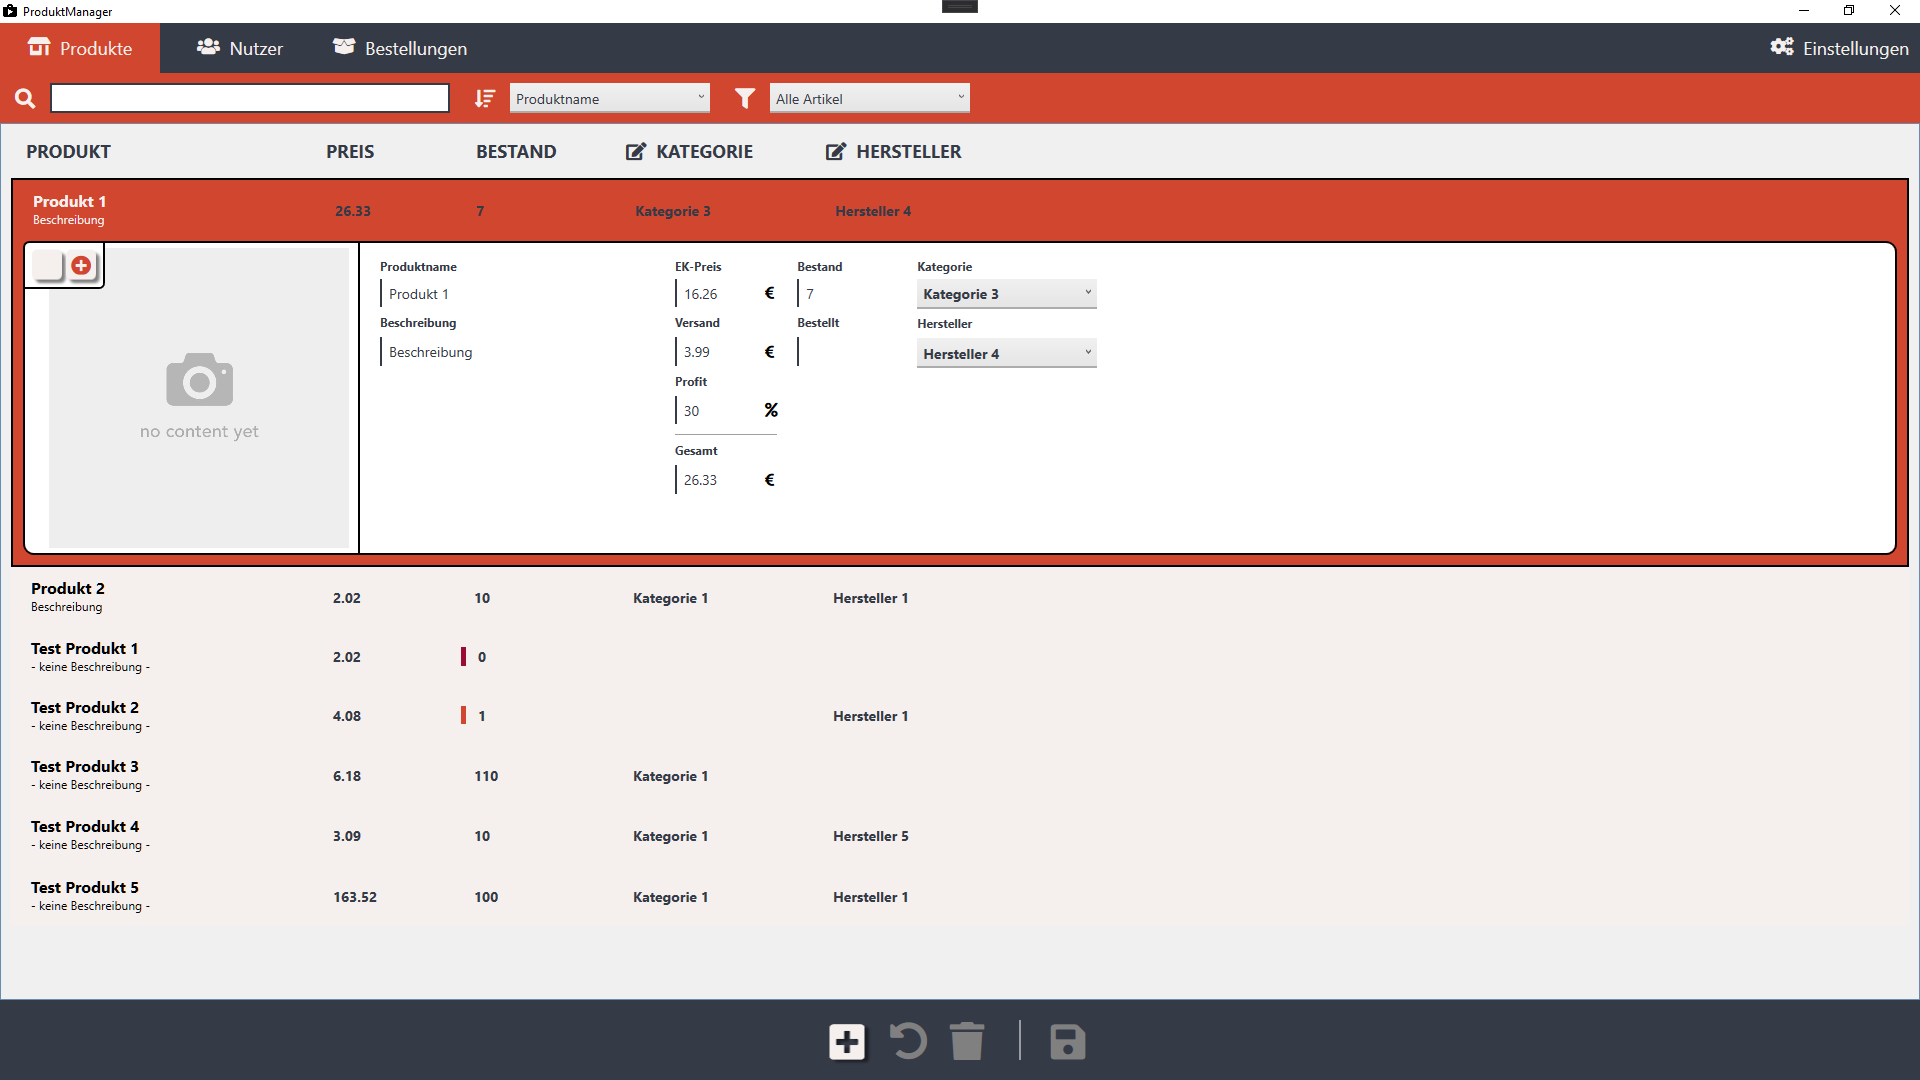
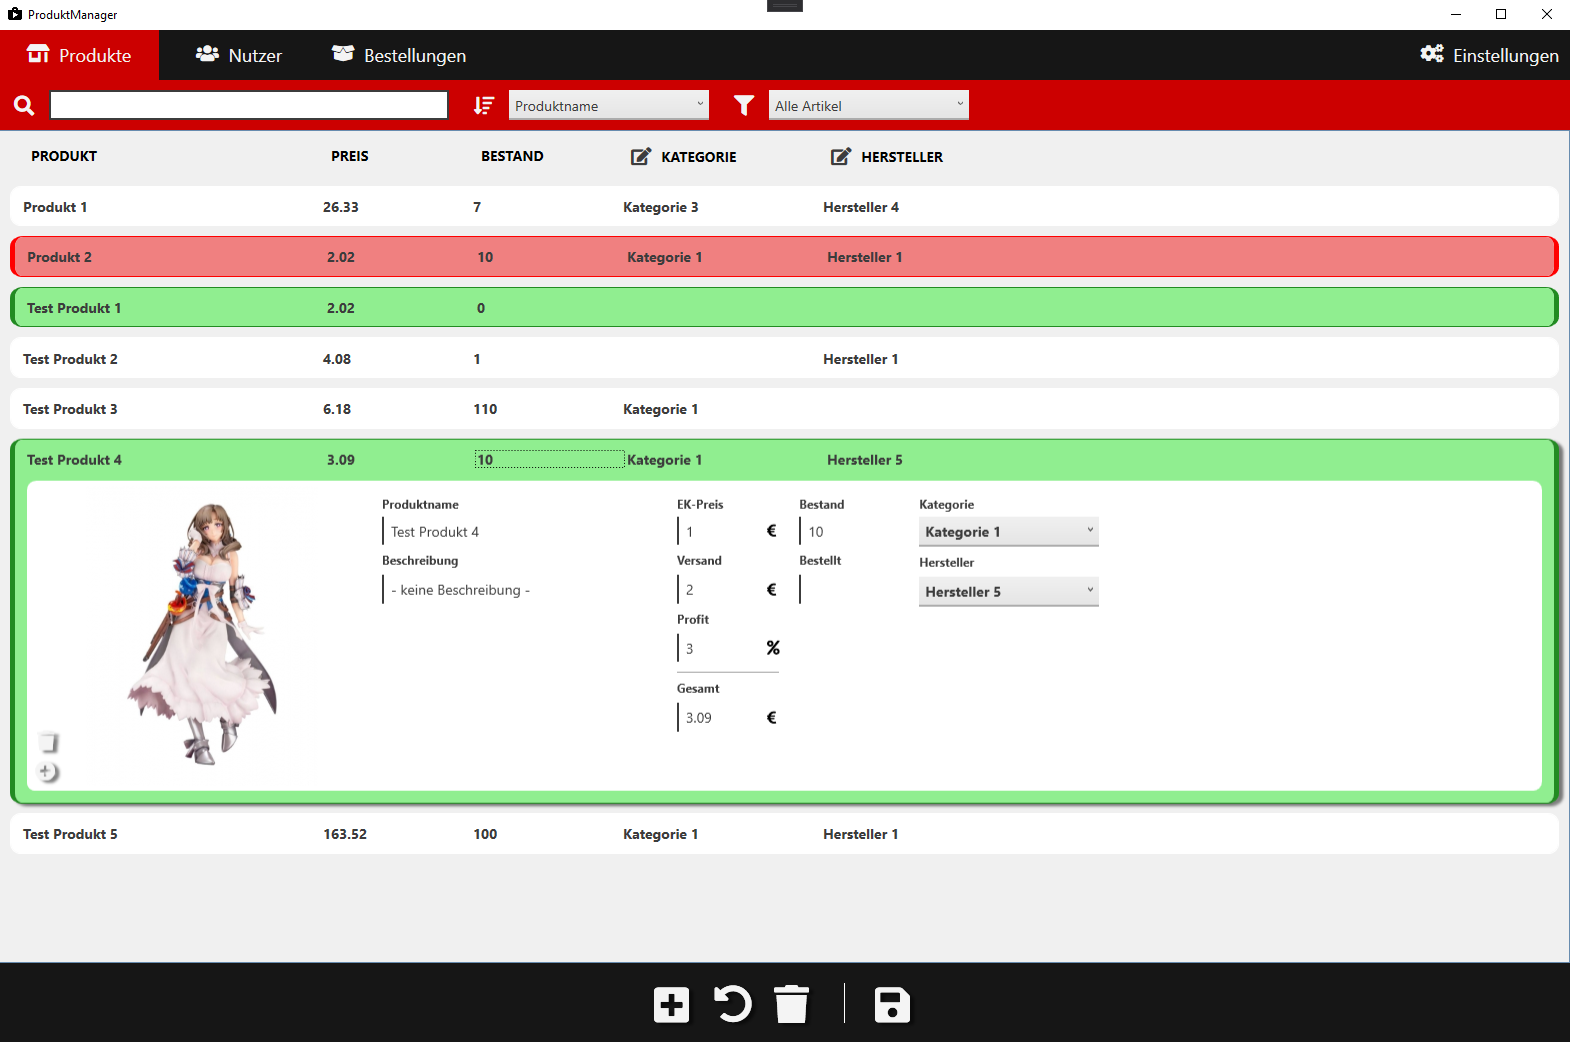
Weitere Design anpassungen am Datagrid design

diff --git a/ProductManager/3 - View/Pages/ProductsPage.xaml b/ProductManager/3 - View/Pages/ProductsPage.xaml
@@ -66,7 +66,7 @@
         <StackPanel Grid.Row="0"
                         Name="spSuchfeld"
                         Orientation="Horizontal"
-                        Background="{StaticResource colorLight}"
+                        Background="{StaticResource colorDark}"
                         Height="50">
             <Grid>
                 <StackPanel Orientation="Horizontal">
@@ -129,31 +129,11 @@
             <!-- DataGrid Header und Bindings -->
             <DataGrid.Columns>
 
-                <DataGridTextColumn Width="300" Header="PRODUKT" Binding="{Binding Name.Value}">
-                    <DataGridTextColumn.CellStyle>
-                        <Style>
-                            <Setter Property="ItemsControl.Template">
-                                <Setter.Value>
-                                    <ControlTemplate>
-                                        <StackPanel Orientation="Vertical" Margin="20 10">
-                                            <TextBlock Text="{Binding Name.Value}"
-                                                       FontSize="16"
-                                                       FontWeight="Bold"/>
-                                            <TextBlock Text="{Binding Description.Value}"
-                                                       FontSize="12"
-                                                       FontWeight="Regular"
-                                                       TextTrimming="CharacterEllipsis"/>
-                                        </StackPanel>
-                                    </ControlTemplate>
-                                </Setter.Value>
-                            </Setter>
-                        </Style>
-                    </DataGridTextColumn.CellStyle>
-                </DataGridTextColumn>
+                <DataGridTextColumn Width="300" Header="PRODUKT" Binding="{Binding Name.Value}"/>
 
                 <DataGridTextColumn Width="150" Header="PREIS" Binding="{Binding Price.PriceFinal, StringFormat=#.##, TargetNullValue=0.00}"/>
 
-                <DataGridTextColumn Width="150" Header="BESTAND" Binding="{Binding Quantity.Value}" CellStyle="{StaticResource QuantityDataGridCell}"/>
+                <DataGridTextColumn Width="150" Header="BESTAND" Binding="{Binding Quantity.Value}"/>
 
                 <DataGridTextColumn Width="200" Binding="{Binding CategoryId.Value, Converter={StaticResource CategoryConv}}">
                     <DataGridTextColumn.Header>
@@ -189,7 +169,7 @@
                 <DataTemplate>
 
                     <Border MaxHeight="350"
-                            BorderBrush="Black"
+                            BorderBrush="Transparent"
                             BorderThickness="2"
                             CornerRadius="10"
                             Background="White"
@@ -211,48 +191,41 @@
                             </Grid.ColumnDefinitions>
 
                             <!-- Produktbild -->
-                            <Border Grid.Column="0" Grid.RowSpan="2"
-                                    BorderBrush="Black"
-                                    BorderThickness="0 0 2 0"
-                                    Margin="15 0 15 0"
-                                    Background="White">
-                                <Grid>
+                            <Grid>
+                                <Image MaxHeight="300" Margin="5" Stretch="Uniform">
+                                    <Image.Style>
+                                        <Style TargetType="Image">
+                                            <Setter Property="Source" Value="{Binding Image.CurrentImage, UpdateSourceTrigger=PropertyChanged}"/>
+                                            <Style.Triggers>
+                                                <DataTrigger Binding="{Binding Image.CurrentImage}" Value="{x:Null}">
+                                                    <Setter Property="Source" Value="/Shared/Images/notavailable.jpg"/>
+                                                </DataTrigger>
+                                            </Style.Triggers>
+                                        </Style>
+                                    </Image.Style>
+                                </Image>
 
-                                    <Image MaxHeight="300" Margin="5" Stretch="Uniform">
-                                        <Image.Style>
-                                            <Style TargetType="Image">
-                                                <Setter Property="Source" Value="{Binding Image.CurrentImage, UpdateSourceTrigger=PropertyChanged}"/>
-                                                <Style.Triggers>
-                                                    <DataTrigger Binding="{Binding Image.CurrentImage}" Value="{x:Null}">
-                                                        <Setter Property="Source" Value="/Shared/Images/notavailable.jpg"/>
-                                                    </DataTrigger>
-                                                </Style.Triggers>
-                                            </Style>
-                                        </Image.Style>
-                                    </Image>
+                                <Border BorderBrush="Transparent" BorderThickness="2" CornerRadius="0 10 0 9"
+                                        Background="White"
+                                        Margin="-2"
+                                        HorizontalAlignment="Left" VerticalAlignment="Bottom">
+                                    <StackPanel Orientation="Vertical" Margin="5">
+                                        <Button Content="&#xf1f8;" BorderBrush="Black" BorderThickness="2"
+                                                FontSize="20"
+                                                Margin="0" Width="30" Height="30"
+                                                Command="{Binding Source={StaticResource vmProducts}, Path=RemoveImageCommand}"
+                                                HorizontalAlignment="Left"
+                                                Style="{StaticResource btnBottomMenu}"/>
 
-                                    <Border BorderBrush="Black" BorderThickness="2" CornerRadius="5 0 5 0"
-                                            Background="White"
-                                            Margin="-17 -2"
-                                            HorizontalAlignment="Left" VerticalAlignment="Top">
-                                        <StackPanel Orientation="Horizontal" Margin="5">
-                                            <Button Content="&#xf1f8;" BorderBrush="Black" BorderThickness="2"
-                                                    FontSize="20"
-                                                    Margin="2" Width="30" Height="30"
-                                                    Command="{Binding Source={StaticResource vmProducts}, Path=RemoveImageCommand}"
-                                                    HorizontalAlignment="Left"
-                                                    Style="{StaticResource btnInteract}"/>
-
-                                            <Button Content="&#xf055;"
-                                                    FontSize="20"
-                                                    Margin="2" Width="30" Height="30"
-                                                    Click="AddImage_Click"
-                                                    HorizontalAlignment="Left"
-                                                    Style="{StaticResource btnInteract}"/>
-                                        </StackPanel>
-                                    </Border>
-                                </Grid>
-                            </Border>
+                                        <Button Content="&#xf055;"
+                                                FontSize="20"
+                                                Margin="-2 0" Width="30" Height="30"
+                                                Click="AddImage_Click"
+                                                HorizontalAlignment="Left"
+                                                Style="{StaticResource btnBottomMenu}"/>
+                                    </StackPanel>
+                                </Border>
+                            </Grid>
 
                             <!-- Produktname -->
                             <StackPanel Grid.Column="1" Orientation="Vertical" VerticalAlignment="Top" Margin="0 15 0 0">
@@ -455,7 +428,7 @@
                     FontSize="38"/>
 
             <Button Content="&#xf1f8;"
-                    Command="{Binding UndoCommand}"
+                    Command="{Binding DeleteCommand}"
                     Style="{StaticResource btnBottomMenu}"
                     Width="50" Height="50"/>
 
@@ -465,7 +438,7 @@
                        Stroke="White"/>
 
             <Button Content="&#xf0c7;"
-                    IsEnabled="{Binding Changed}"
+
                     Command="{Binding SaveCommand}"
                     Style="{StaticResource btnBottomMenu}"
                     Width="50" Height="50"/>

diff --git a/ProductManager/3 - View/Resource/DefaultIListCollection.xaml b/ProductManager/3 - View/Resource/DefaultIListCollection.xaml
@@ -65,41 +65,8 @@
     </Style>
 -->
 
-    <Style x:Key="QuantityDataGridCell" TargetType="DataGridCell">
-        <Setter Property="FontSize" Value="14"/>
-        <Setter Property="FontWeight" Value="Bold"/>
-        <Setter Property="Foreground" Value="{StaticResource colorFontDark}"/>
-        <Setter Property="VerticalAlignment" Value="Stretch"/>
-        <Setter Property="Template">
-            <Setter.Value>
-                <ControlTemplate TargetType="DataGridCell">
-                    <Border IsHitTestVisible="True"
-                            BorderBrush="{TemplateBinding BorderBrush}"
-                            BorderThickness="{TemplateBinding BorderThickness}"
-                            Margin="0 20 0 20">
-                        <ContentPresenter VerticalAlignment="Center" Margin="10 0 0 0"/>
-                    </Border>
-                </ControlTemplate>
-            </Setter.Value>
-        </Setter>
-        <Style.Triggers>
-            <Trigger Property="IsSelected" Value="True">
-                <Setter Property="Background" Value="{StaticResource colorDark}"/>
-                <Setter Property="Foreground" Value="{StaticResource colorFontLight}"/>
-            </Trigger>
-            <DataTrigger Binding="{Binding IsEmpty}" Value="True">
-                <Setter Property="BorderBrush" Value="{StaticResource colorHighlight}"/>
-                <Setter Property="BorderThickness" Value="5 0 0 0"/>
-            </DataTrigger>
-            <DataTrigger Binding="{Binding NeedRestock}" Value="True">
-                <Setter Property="BorderBrush" Value="{StaticResource colorLight}"/>
-                <Setter Property="BorderThickness" Value="5 0 0 0"/>
-            </DataTrigger>
-        </Style.Triggers>
-    </Style>
-
     <Style TargetType="DataGridColumnHeader">
-        <Setter Property="Background" Value="{StaticResource colorBackgroundLight}"/>
+        <Setter Property="Background" Value="Transparent"/>
         <Setter Property="FontWeight" Value="Bold"/>
         <Setter Property="Template">
             <Setter.Value>
@@ -107,34 +74,81 @@
                     <Grid Grid.Column="0"
                           Background="{TemplateBinding Background}"
                           HorizontalAlignment="Stretch">
-                        <ContentPresenter Margin="25 10 0 10"/>
+                        <ContentPresenter Margin="10 15"/>
                     </Grid>
                 </ControlTemplate>
             </Setter.Value>
         </Setter>
     </Style>
 
+    <Style TargetType="DataGridCell">
+        <Setter Property="Background" Value="Transparent"/>
+        <Setter Property="BorderThickness" Value="0"/>
+        <Setter Property="Foreground" Value="{StaticResource colorFontDark}"/>
+    </Style>
+
     <Style TargetType="DataGridRow">
-        <Setter Property="Background" Value="{StaticResource colorBackgroundLight}"/>
-        <Setter Property="Margin" Value="15 5 15 5"/>
+        <Setter Property="Margin" Value="10 5"/>
+        <Setter Property="FontSize" Value="14"/>
+        <Setter Property="FontWeight" Value="Bold"/>
         <Setter Property="BorderBrush" Value="White"/>
         <Setter Property="BorderThickness" Value="1"/>
         <Setter Property="Effect" Value="{x:Null}"/>
+        <Setter Property="Template">
+            <Setter.Value>
+                <ControlTemplate TargetType="DataGridRow">
+                    <Border BorderBrush="{TemplateBinding BorderBrush}"
+                            BorderThickness="{TemplateBinding BorderThickness}"
+                            Background="{TemplateBinding Background}"
+                            CornerRadius="10">
+                        <SelectiveScrollingGrid>
+                            <SelectiveScrollingGrid.ColumnDefinitions>
+                                <ColumnDefinition Width="Auto"/>
+                                <ColumnDefinition Width="*"/>
+                            </SelectiveScrollingGrid.ColumnDefinitions>
+                            <SelectiveScrollingGrid.RowDefinitions>
+                                <RowDefinition Height="*"/>
+                                <RowDefinition Height="Auto"/>
+                            </SelectiveScrollingGrid.RowDefinitions>
+
+                            <DataGridRowHeader Grid.RowSpan="2"
+                                               SelectiveScrollingGrid.SelectiveScrollingOrientation="Vertical"
+                                               Visibility="{Binding HeadersVisibility, ConverterParameter={x:Static DataGridHeadersVisibility.Row}, Converter={x:Static DataGrid.HeadersVisibilityConverter}, RelativeSource={RelativeSource AncestorType={x:Type DataGrid}}}"/>
+
+                            <DataGridCellsPresenter Grid.Column="1" Margin="10"
+                                                    ItemsPanel="{TemplateBinding ItemsPanel}"/>
+
+                            <DataGridDetailsPresenter Grid.Column="1" Grid.Row="1" Margin="0"
+                                                      SelectiveScrollingGrid.SelectiveScrollingOrientation="{Binding AreRowDetailsFrozen, ConverterParameter={x:Static SelectiveScrollingOrientation.Vertical}, Converter={x:Static DataGrid.RowDetailsScrollingConverter}, RelativeSource={RelativeSource AncestorType={x:Type DataGrid}}}"
+                                                      Visibility="{TemplateBinding DetailsVisibility}"/>
+                        </SelectiveScrollingGrid>
+                    </Border>
+                </ControlTemplate>
+            </Setter.Value>
+        </Setter>
         <Style.Triggers>
             <Trigger Property="IsMouseOver" Value="True">
-                <Setter Property="Background" Value="{StaticResource colorDark}"/>
+                <Setter Property="Background" Value="{StaticResource colorLight}"/>
                 <Setter Property="Effect" Value="{StaticResource dropShadow}"/>
             </Trigger>
             <Trigger Property="IsSelected" Value="True">
+                <Setter Property="BorderThickness" Value="5 1 5 1"/>
+                <Setter Property="BorderBrush" Value="#FF8B1D"/>
                 <Setter Property="Background" Value="{StaticResource colorLight}"/>
-                <Setter Property="Foreground" Value="{StaticResource colorFontLight}"/>
+                <Setter Property="Foreground" Value="{StaticResource colorFontDark}"/>
                 <Setter Property="Effect" Value="{StaticResource dropShadow}"/>
             </Trigger>
+            <DataTrigger Binding="{Binding IsDeleted}" Value="True">
+                <Setter Property="BorderThickness" Value="5 1 5 1"/>
+                <Setter Property="BorderBrush" Value="Red"/>
+                <Setter Property="Background" Value="LightCoral"/>
+                <Setter Property="Foreground" Value="White"/>
+            </DataTrigger>
+            <DataTrigger Binding="{Binding Changed}" Value="True">
+                <Setter Property="BorderThickness" Value="5 1 5 1"/>
+                <Setter Property="BorderBrush" Value="ForestGreen"/>
+                <Setter Property="Background" Value="LightGreen"/>
+            </DataTrigger>
         </Style.Triggers>
-    </Style>
-
-    <Style TargetType="DataGridCell">
-        <Setter Property="Margin" Value="10"/>
-        <Setter Property="FontWeight" Value="Bold"/>
     </Style>
 </ResourceDictionary>

diff --git a/ProductManager/3 - View/Resource/Colors.xaml b/ProductManager/3 - View/Resource/Colors.xaml
@@ -12,11 +12,12 @@
     <SolidColorBrush x:Key="dSchriftv2" Color="#212121"/>
     <SolidColorBrush x:Key="hSchriftv2" Color="#BDBDBD"/>
     -->
-    <SolidColorBrush x:Key="colorLight" Color="#d1462f"/>
-    <SolidColorBrush x:Key="colorDark" Color="#ffad05"/>
+    <SolidColorBrush x:Key="colorLight" Color="#FFC71D"/>
+    <SolidColorBrush x:Key="colorDark" Color="#CC0000"/>
     <SolidColorBrush x:Key="colorHighlight" Color="#990d35"/>
-    <SolidColorBrush x:Key="colorBackgroundLight" Color="#f5efed"/>
-    <SolidColorBrush x:Key="colorBackgroundDark" Color="#353a47"/>
-    <SolidColorBrush x:Key="colorFontLight" Color="#f5efed"/>
-    <SolidColorBrush x:Key="colorFontDark" Color="#353a47"/>
+    <SolidColorBrush x:Key="colorBackgroundLight" Color="#FDFDFD"/>
+    <SolidColorBrush x:Key="colorBackgroundMedium" Color="#C7C7C7"/>
+    <SolidColorBrush x:Key="colorBackgroundDark" Color="#161616"/>
+    <SolidColorBrush x:Key="colorFontLight" Color="#F4F4F4"/>
+    <SolidColorBrush x:Key="colorFontDark" Color="#3C3C3C"/>
 </ResourceDictionary>

diff --git a/ProductManager/3 - View/Resource/DefaultButtons.xaml b/ProductManager/3 - View/Resource/DefaultButtons.xaml
@@ -171,13 +171,13 @@
 
                     <ControlTemplate.Triggers>
                         <Trigger Property="IsMouseOver" Value="True">
-                            <Setter Property="Background" Value="{StaticResource colorDark}"/>
+                            <Setter Property="Background" Value="{StaticResource colorLight}"/>
                         </Trigger>
                         <Trigger Property="IsPressed" Value="True">
-                            <Setter Property="Background" Value="{StaticResource colorDark}"/>
+                            <Setter Property="Background" Value="{StaticResource colorLight}"/>
                         </Trigger>
                         <Trigger Property="IsChecked" Value="True">
-                            <Setter Property="Background" Value="{StaticResource colorLight}"/>
+                            <Setter Property="Background" Value="{StaticResource colorDark}"/>
                         </Trigger>
                     </ControlTemplate.Triggers>
                 </ControlTemplate>

diff --git a/ProductManager/3 - View/Pages/UsersPage.xaml b/ProductManager/3 - View/Pages/UsersPage.xaml
@@ -23,7 +23,7 @@
         <Grid Grid.Row="0">
             <StackPanel Name="spSuchfeld"
                         Orientation="Horizontal"
-                        Background="{StaticResource colorLight}"
+                        Background="{StaticResource colorDark}"
                         Height="50">
                 <!-- Suchen -->
                 <Label Content="{StaticResource Search}"

diff --git a/ProductManager/2 - ViewModel/MainOrdersViewModel.cs b/ProductManager/2 - ViewModel/MainOrdersViewModel.cs
@@ -88,7 +88,7 @@ namespace ProductManager.ViewModel
             NewCommand = new RelayCommand(NewExecuted);
             UndoCommand = new RelayCommand(UndoExecuted, UndoCanExecute);
 
-            _viewCollection.MoveCurrentToFirst();
+            //_viewCollection.MoveCurrentToFirst();
         }
         #endregion "Konstruktor"
 

diff --git a/ProductManager/2 - ViewModel/Product/ProductVM.cs b/ProductManager/2 - ViewModel/Product/ProductVM.cs
@@ -137,7 +137,7 @@ namespace ProductManager.ViewModel
         {
             _image.RemoveCurrentImage();
             IsDeleted = true;
-            Changed = true;
+            Changed = false;
         }
 
         /// <summary>
